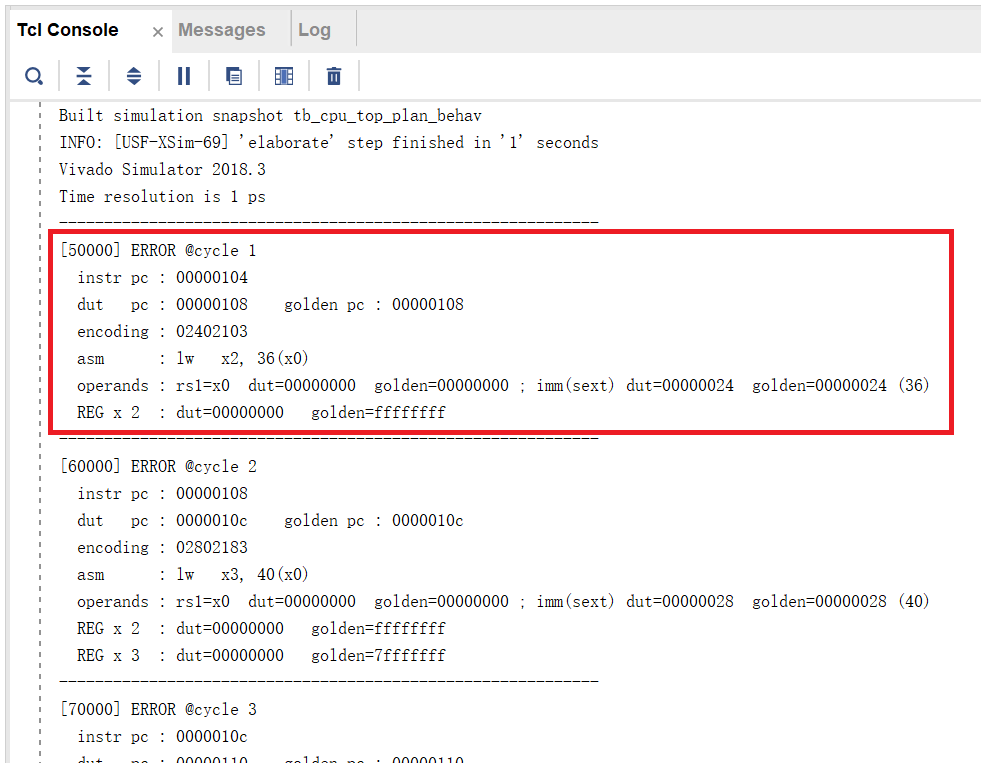
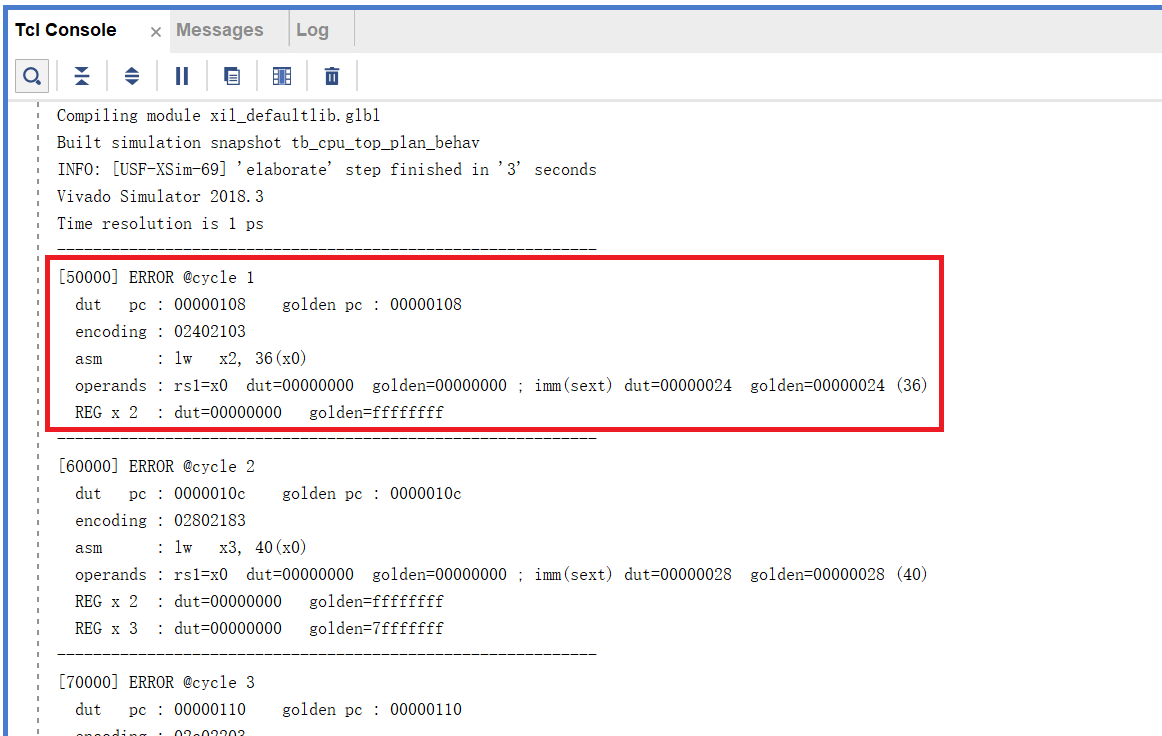
lab5

diff --git a/build/html/lab5/lab5_cpu_7inst.html b/build/html/lab5/lab5_cpu_7inst.html
@@ -183,7 +183,7 @@
 <p>完成 Top 模块的测试。</p>
 <p>如果对比结果有误，软件会在 Tcl Console 一栏内给出提示信息。如下图所示，dut 为待测试设计，也就是你的 Top 模块。提示信息将给出 dut 和 golden standard 的对比值，包括：pc 的对比、指令的十六进制表示和助记符形式、操作数的对比、寄存器值的对比等信息。请根据提示信息检查你的设计，找出 bug 并修正。</p>
 <figure class="align-center">
-<a class="reference internal image-reference" href="../_images/error.png"><img alt="error" height="534" src="../_images/error.png" width="687" />
+<a class="reference internal image-reference" href="../_images/error.png"><img alt="error" height="515" src="../_images/error.png" width="813" />
 </a>
 </figure>
 <p>请 de 出所有的 bug，并对所有测试用例都通过的界面进行截图，示例如下。</p>

diff --git a/docs/lab5/lab5_cpu_7inst.html b/docs/lab5/lab5_cpu_7inst.html
@@ -183,7 +183,7 @@
 <p>完成 Top 模块的测试。</p>
 <p>如果对比结果有误，软件会在 Tcl Console 一栏内给出提示信息。如下图所示，dut 为待测试设计，也就是你的 Top 模块。提示信息将给出 dut 和 golden standard 的对比值，包括：pc 的对比、指令的十六进制表示和助记符形式、操作数的对比、寄存器值的对比等信息。请根据提示信息检查你的设计，找出 bug 并修正。</p>
 <figure class="align-center">
-<a class="reference internal image-reference" href="../_images/error.png"><img alt="error" height="534" src="../_images/error.png" width="687" />
+<a class="reference internal image-reference" href="../_images/error.png"><img alt="error" height="515" src="../_images/error.png" width="813" />
 </a>
 </figure>
 <p>请 de 出所有的 bug，并对所有测试用例都通过的界面进行截图，示例如下。</p>
